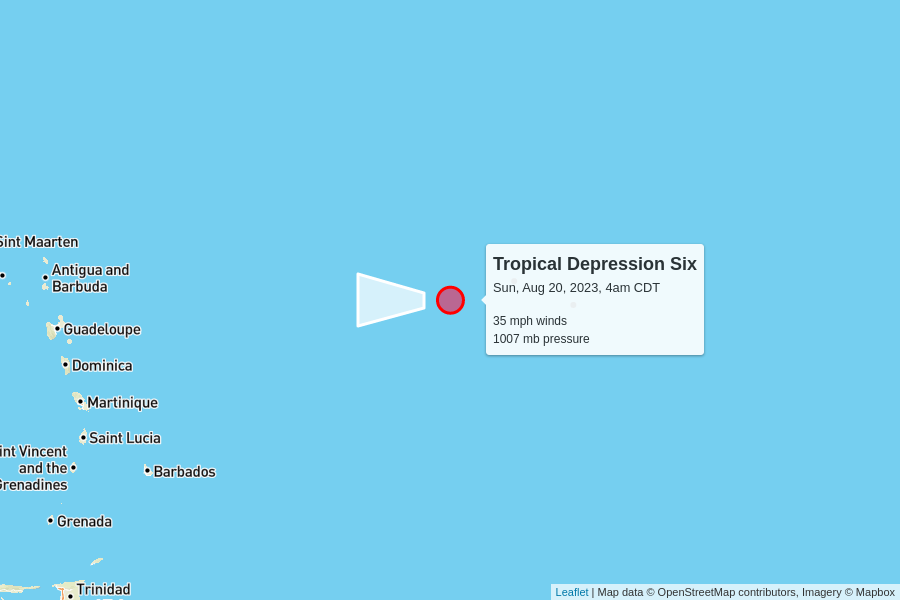
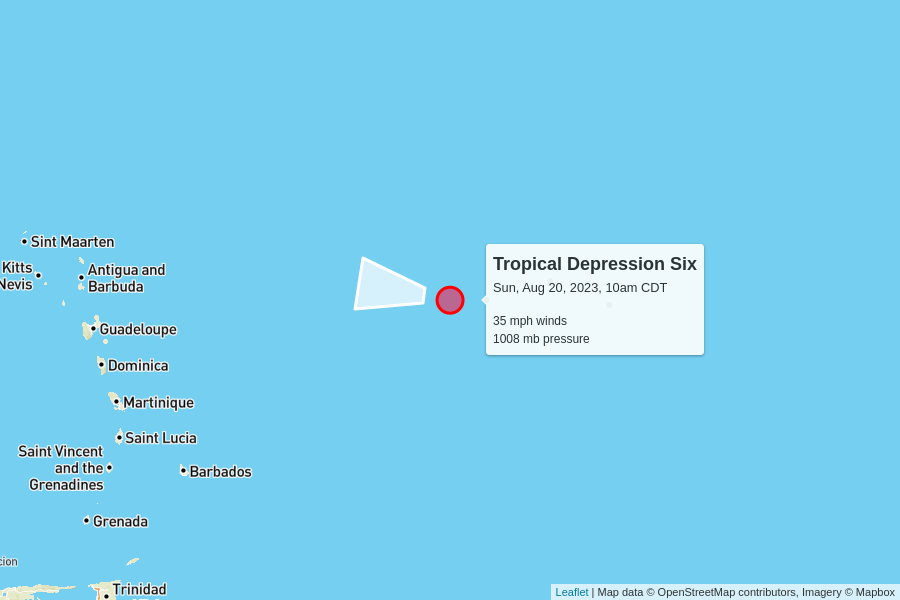
automatic update

diff --git a/docs/index.html b/docs/index.html
@@ -100,7 +100,7 @@
         <td colspan="6" class="storm category-0" >
           <h2>
             Tropical Depression Six
-            <p class="updated">last updated <span data-time>2023-08-20T09:00:00.000Z</span></p>
+            <p class="updated">last updated <span data-time>2023-08-20T15:00:00.000Z</span></p>
           </h2>
         </td>
       </tr>
@@ -116,11 +116,11 @@
       <tr>
         <td class="spacer"></td>
         <td>35 mph</td>
-        <td>1007 mb</td>
+        <td>1008 mb</td>
         <td>
-          15 mph to the west
+          12 mph to the west
           <br/>
-          <span style="display: inline-block; font-size: 1.5em; transform: rotate(270deg);">↑</span>
+          <span style="display: inline-block; font-size: 1.5em; transform: rotate(280deg);">↑</span>
         </td>
         <td><a href="https://raw.githubusercontent.com/mgwalker/atlantic-hurricanes/main/data/csv/AL062023.csv">AL062023.csv</a></td>
         <td><a href="https://www.nhc.noaa.gov/archive/2023/SIX.shtml?">NHC advisories</a></td>
@@ -130,6 +130,50 @@
         <td colspan="5">
           <figure>
             <img src="AL062023.png">
+            <figcaption>
+              Map data &copy; <a href="https://www.openstreetmap.org/copyright">OpenStreetMap</a> contributors,
+              Imagery &copy; <a href="https://www.mapbox.com/">Mapbox</a> |
+              <a href="https://www.mapbox.com/map-feedback/" target="_blank">Improve this map</a>
+            </figcaption>
+          </figure>
+        </td>
+      </tr>
+      
+
+      <tr>
+        <td colspan="6" class="storm category-0" >
+          <h2>
+            Tropical Storm Emily
+            <p class="updated">last updated <span data-time>2023-08-20T15:00:00.000Z</span></p>
+          </h2>
+        </td>
+      </tr>
+      
+      <tr>
+        <th class="spacer"></th>
+        <th>wind speed</th>
+        <th>central pressure</th>
+        <th>movement</th>
+        <th>data (CSV)</th>
+        <th>National Hurricane Center</th>
+      </tr>
+      <tr>
+        <td class="spacer"></td>
+        <td>50 mph</td>
+        <td>1001 mb</td>
+        <td>
+          10 mph to the west-northwest
+          <br/>
+          <span style="display: inline-block; font-size: 1.5em; transform: rotate(300deg);">↑</span>
+        </td>
+        <td><a href="https://raw.githubusercontent.com/mgwalker/atlantic-hurricanes/main/data/csv/AL072023.csv">AL072023.csv</a></td>
+        <td><a href="https://www.nhc.noaa.gov/archive/2023/EMILY.shtml?">NHC advisories</a></td>
+      </tr>
+      <tr id="storm_AL072023" >
+        <td class="spacer">
+        <td colspan="5">
+          <figure>
+            <img src="AL072023.png">
             <figcaption>
               Map data &copy; <a href="https://www.openstreetmap.org/copyright">OpenStreetMap</a> contributors,
               Imagery &copy; <a href="https://www.mapbox.com/">Mapbox</a> |
